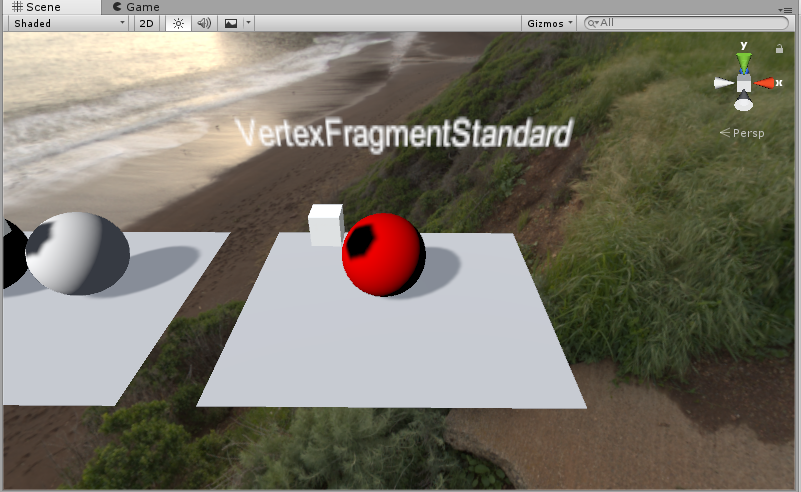
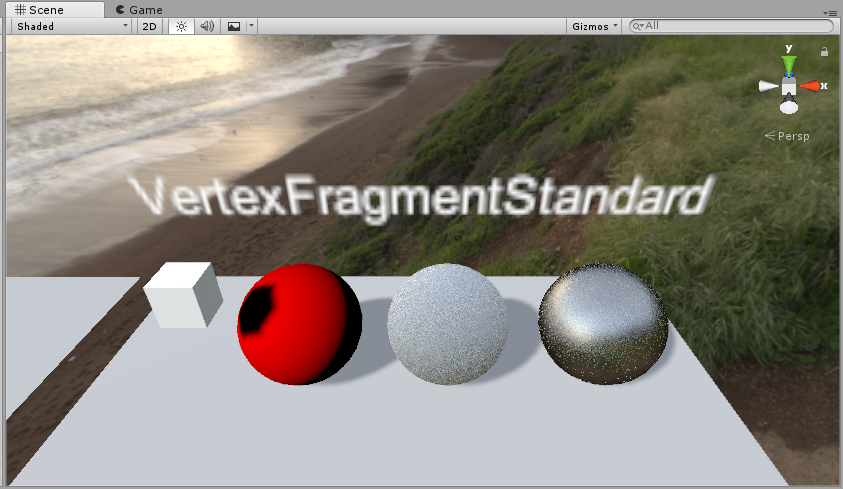
Modify IndirectShadingMonteCarlo.shader

diff --git a/Assets/Editor/IndirectShadingMonteCarloGUI.cs b/Assets/Editor/IndirectShadingMonteCarloGUI.cs
@@ -1,6 +1,4 @@
-// Unity built-in shader source. Copyright (c) 2016 Unity Technologies. MIT license (see license.txt)
-
-using System;
+using System;
 using UnityEngine;
 
 namespace UnityEditor
@@ -19,27 +17,29 @@ namespace UnityEditor
             Unity,
             GGX_MonteCarlo,
         };
-        private enum SampleNum
+        private enum ISSampleNum
         {
-            num1   = 1,
-            num4   = 4,
-            num8   = 8,
-            num16  = 16,
-            num32  = 32,
-            num64  = 64,
-            num128 = 128,
+            num4    = 4,
+            num8    = 8,
+            num16   = 16,
+            num32   = 32,
+            num64   = 64,
+            num128  = 128,
+            num256  = 256,
+            num512  = 512,
+            num1024 = 1024,
         };
 
         public static readonly string[] indirect_diffuse_type_names =
             Enum.GetNames( typeof( IndirectDiffuseType ) );
         public static readonly string[] indirect_specular_type_names =
             Enum.GetNames( typeof( IndirectSpecularType ) );
-        public static readonly string[] sample_num_names =
-            Enum.GetNames( typeof( SampleNum ) );
+        public static readonly string[] is_sample_num_names =
+            Enum.GetNames( typeof( ISSampleNum ) );
 
         MaterialProperty m_IndirectDiffuseTypeProperty  = null;
         MaterialProperty m_IndirectSpecularTypeProperty = null;
-        MaterialProperty m_SampleNumProperty            = null;
+        MaterialProperty m_ISSampleNumProperty          = null;
 
         public override void OnGUI(MaterialEditor materialEditor, MaterialProperty[] props)
         {
@@ -47,25 +47,38 @@ namespace UnityEditor
                 FindProperty( "_IndirectDiffuseType", props );
             m_IndirectSpecularTypeProperty =
                 FindProperty( "_IndirectSpecularType", props );
-            m_SampleNumProperty =
+            m_ISSampleNumProperty =
                 FindProperty( "_ISSampleNum", props );
-
-            base.OnGUI(materialEditor, props);
 
             Material targetMat = materialEditor.target as Material;
 
             IndirectDiffuseType indirect_diffuse_type = 
                 (IndirectDiffuseType) m_IndirectDiffuseTypeProperty.floatValue;
+            IndirectSpecularType indirect_specular_type = 
+                (IndirectSpecularType) m_IndirectSpecularTypeProperty.floatValue;
+            ISSampleNum is_sample_num =
+                (ISSampleNum) m_ISSampleNumProperty.floatValue;
+
+            base.OnGUI(materialEditor, props);
 
             EditorGUI.BeginChangeCheck();
+
             indirect_diffuse_type =
                 (IndirectDiffuseType) EditorGUILayout.Popup( "Indirect Diffuse Type",
                     (int) indirect_diffuse_type, indirect_diffuse_type_names );
 
+            indirect_specular_type =
+                (IndirectSpecularType) EditorGUILayout.Popup( "Indirect Specular Type",
+                    (int) indirect_specular_type, indirect_specular_type_names );
+
+            is_sample_num =
+                (ISSampleNum) EditorGUILayout.Popup( "IS sample num",
+                    (int) is_sample_num, is_sample_num_names );
+
             if (EditorGUI.EndChangeCheck())
             {
                 targetMat.DisableKeyword( "INDIRECT_DIFFUSE_UNITY" );
-                targetMat.DisableKeyword( "INDIRECT_DIFFUSE_IS" );
+                targetMat.DisableKeyword( "INDIRECT_DIFFUSE_LAMBERT_IS" );
                 if ( indirect_diffuse_type == IndirectDiffuseType.None )
                 {
                 }
@@ -75,10 +88,26 @@ namespace UnityEditor
                 }
                 else if ( indirect_diffuse_type == IndirectDiffuseType.Lambert_MonteCarlo )
                 {
-                    targetMat.EnableKeyword( "INDIRECT_DIFFUSE_IS" );
+                    targetMat.EnableKeyword( "INDIRECT_DIFFUSE_LAMBERT_IS" );
                 }
 
-                m_IndirectDiffuseTypeProperty.floatValue = (float) indirect_diffuse_type;
+                targetMat.DisableKeyword( "INDIRECT_SPECULAR_UNITY" );
+                targetMat.DisableKeyword( "INDIRECT_SPECULAR_IS" );
+                if ( indirect_specular_type == IndirectSpecularType.None )
+                {
+                }
+                else if ( indirect_specular_type == IndirectSpecularType.Unity )
+                {
+                    targetMat.EnableKeyword( "INDIRECT_SPECULAR_UNITY" );
+                }
+                else if ( indirect_specular_type == IndirectSpecularType.GGX_MonteCarlo )
+                {
+                    targetMat.EnableKeyword( "INDIRECT_SPECULAR_GGX_IS" );
+                }
+
+                m_IndirectDiffuseTypeProperty.floatValue  = ( float ) indirect_diffuse_type;
+                m_IndirectSpecularTypeProperty.floatValue = ( float ) indirect_specular_type;
+                m_ISSampleNumProperty.floatValue          = ( float ) is_sample_num;
             }
         }
     }
